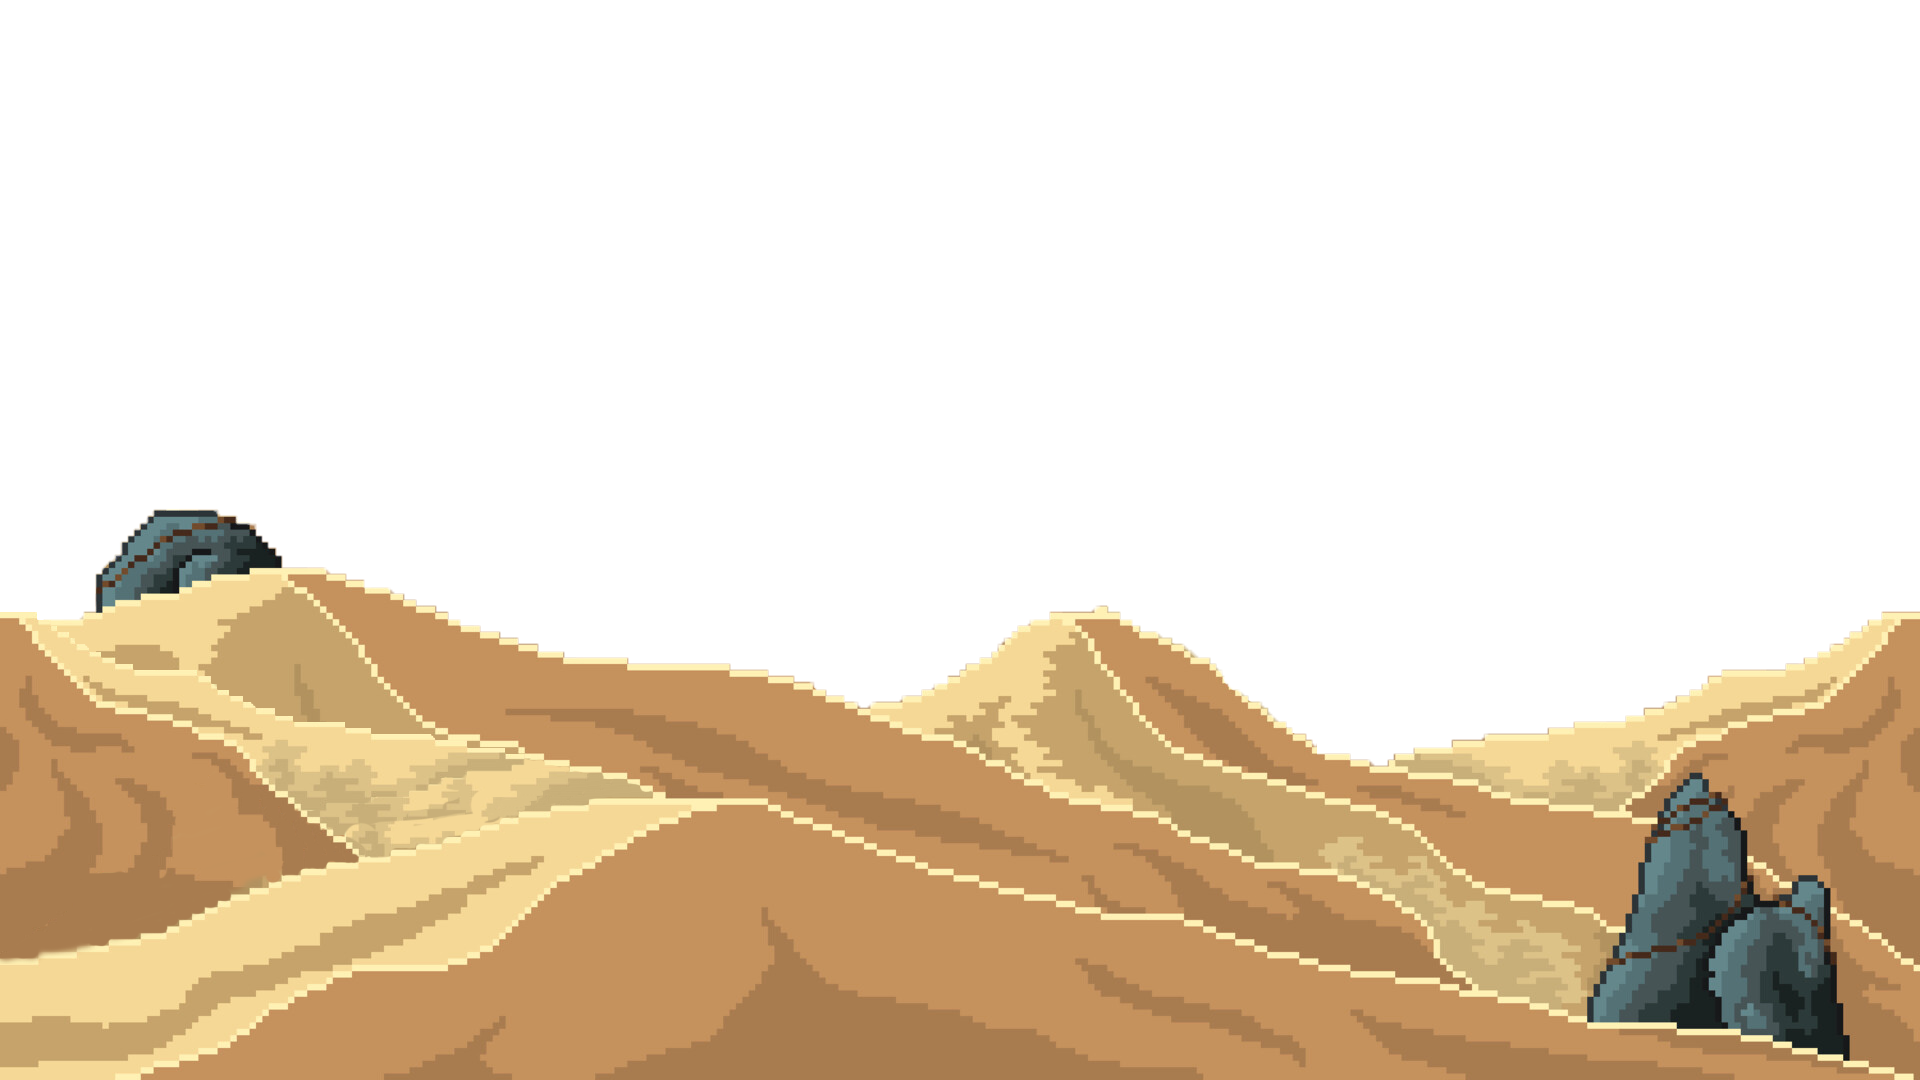
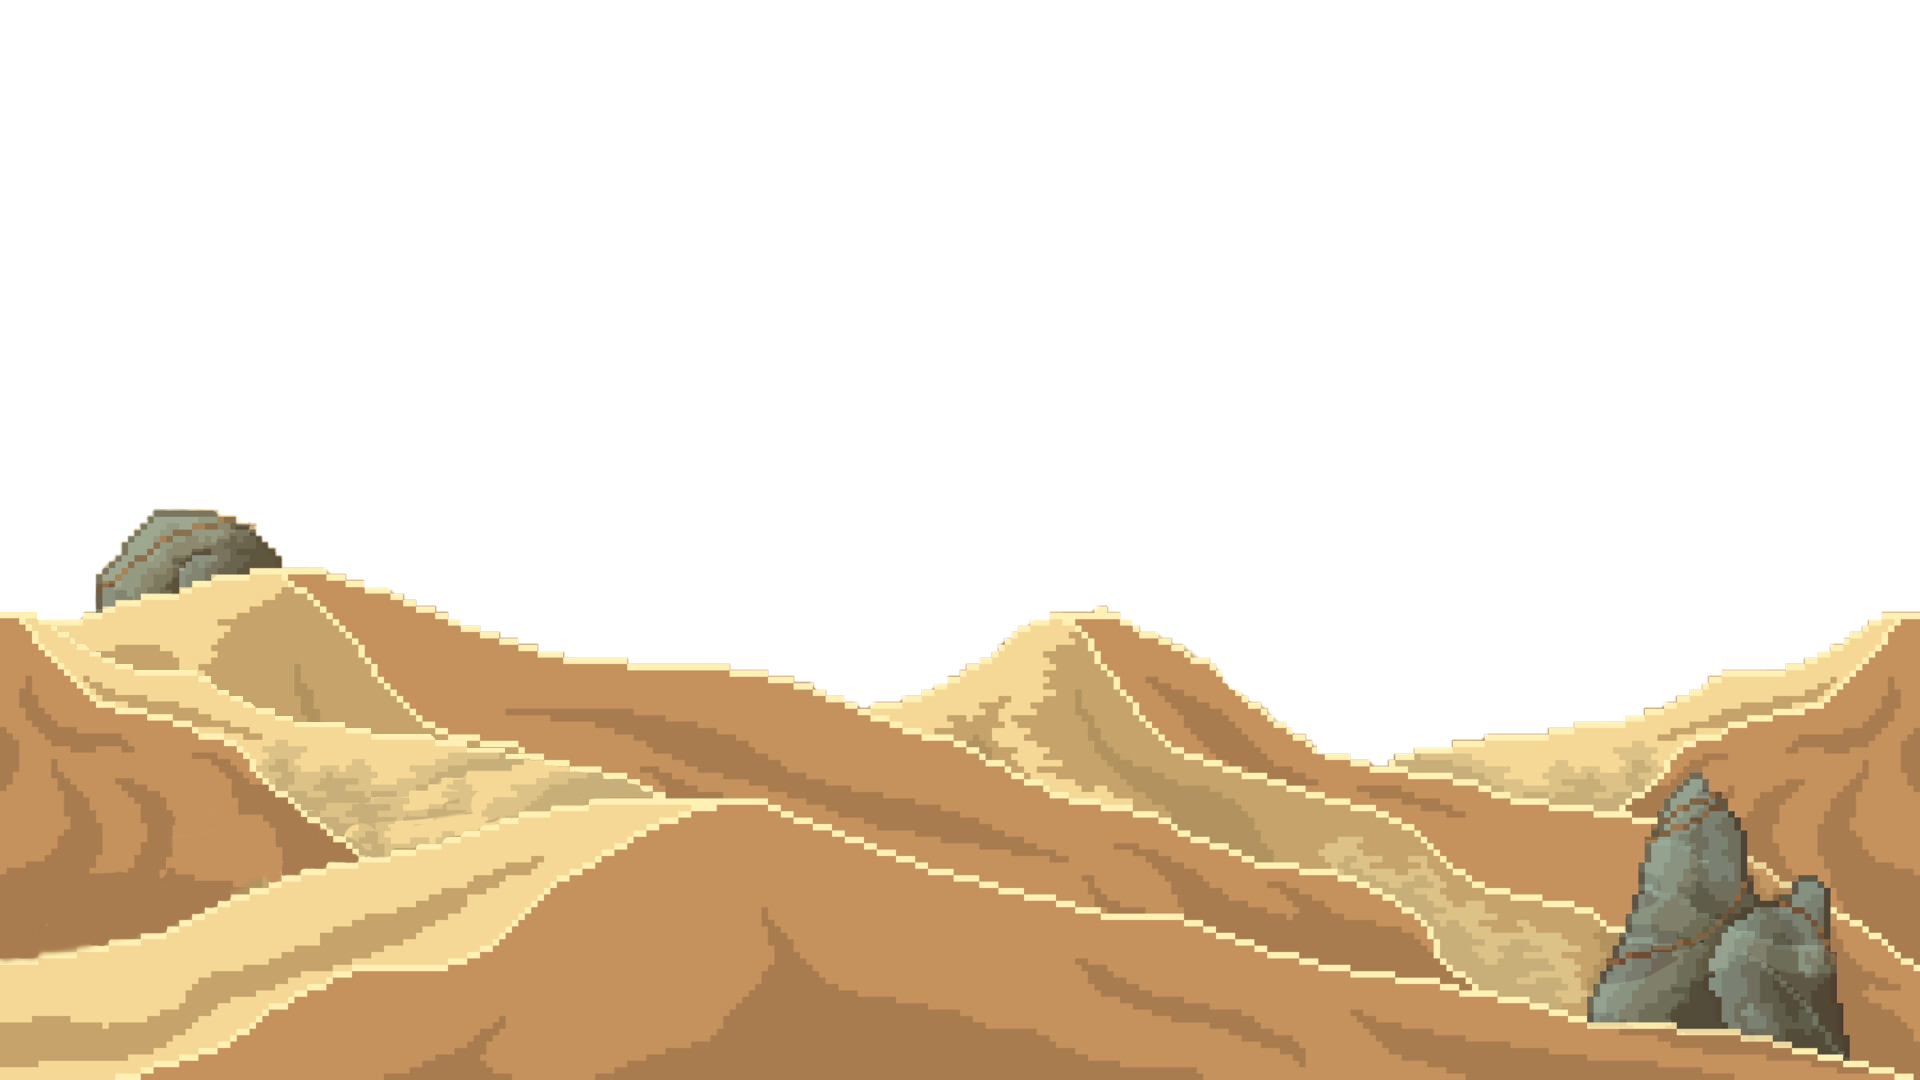
v0.3 final added aereal enemy, updated game name, added enemyType to represent each enemy
Air enemy with sinusoidal movement
Background adjusted to not like  like obstacles

Changed region(s): [[0.8125, 0.7028, 0.9688, 0.9778], [0.0312, 0.4583, 0.1562, 0.5806]]

diff --git a/src/gameScreens/gameplayState.cpp b/src/gameScreens/gameplayState.cpp
@@ -11,7 +11,8 @@ extern float backgroundScale;
 GameplayState::GameplayState()
 {
     character = new Character;
-    obstacles.push_back(new Obstacle());
+    obstacles.push_back(new Obstacle(Obstacle::bike));
+    obstacles.push_back(new Obstacle(Obstacle::helicopter));
     initTextures();
     initAudios();
 }
@@ -55,7 +56,7 @@ void GameplayState::backToMenu()
     firstTime = true;
     unloadTextures();
     character = new Character;
-    
+
     obstacles.push_back(new Obstacle());
     initTextures();
     initAudios();
@@ -67,7 +68,7 @@ void GameplayState::update()
     {
         if (obstacle->isAlive())
         {
-            obstacle->changePosX();
+            obstacle->move();
             if (isCharacterObstacleColliding(character, obstacle)) character->setHP(-1);
         }
     }
@@ -116,6 +117,7 @@ void GameplayState::initTextures()
     paralaxMidground = LoadTexture("res/mountain_midground.png");
     paralaxForeground = LoadTexture("res/mountain_foreground.png");
     characterBullet = LoadTexture("res/entities/player_bullet.png");
+    obstacleHelicopter = LoadTexture("res/entities/enemy_helicopter.png");
 }
 
 void GameplayState::initAudios()
@@ -132,6 +134,8 @@ void GameplayState::unloadTextures()
     UnloadTexture(paralaxBackground);
     UnloadTexture(paralaxMidground);
     UnloadTexture(paralaxForeground);
+    UnloadTexture(characterBullet);
+    UnloadTexture(obstacleHelicopter);
 }
 
 
@@ -147,13 +151,11 @@ void GameplayState::drawBackground() const
     static float rotation = 0;
     drawTexture(paralaxBackground, {scrollingBack, 0}, rotation, backgroundScale, WHITE);
     drawTexture(paralaxBackground, {paralaxBackground.width * backgroundScale + scrollingBack, 0}, rotation,
-                backgroundScale,
-                WHITE);
+                backgroundScale, WHITE);
 
     drawTexture(paralaxMidground, {scrollingMid, 0}, rotation, backgroundScale, WHITE);
     drawTexture(paralaxMidground, {paralaxMidground.width * backgroundScale + scrollingMid, 0}, rotation,
-                backgroundScale,
-                WHITE);
+                backgroundScale, WHITE);
 }
 
 void GameplayState::drawForeground() const
@@ -185,7 +187,9 @@ void GameplayState::drawCharacter() const
     float wheelY = character->getBody().y + vehicleScale * 2;
     float wheelWidth = static_cast<float>(characterWheel.width);
     float wheelHeight = static_cast<float>(characterWheel.height);
+
     const Vector2 origin = {wheelWidth, wheelHeight};
+
     DrawTexturePro(characterWheel, {0, 0, wheelWidth, wheelHeight},
                    {wheelX + wheelWidth * 1.73f, wheelY + wheelHeight * 3, 50, 50}, origin, wheelRotation,RAYWHITE);
 
@@ -196,12 +200,22 @@ void GameplayState::drawObstacles() const
 {
     for (Obstacle* obstacle : obstacles)
     {
+        float textureX = obstacle->getBody().x - obstacleBike.width;
+        float textureY = obstacle->getBody().y - obstacleBike.height;
+
         if (obstacle->isAlive())
         {
-            float textureX = obstacle->getBody().x - obstacleBike.width;
-            float textureY = obstacle->getBody().y - obstacleBike.height;
+            switch (obstacle->getType())
+            {
+            case Obstacle::helicopter:
+                drawTexture(obstacleHelicopter, {textureX, textureY}, 0, 3 * backgroundScale, RAYWHITE);
+                break;
+            case Obstacle::bike:
+            case Obstacle::truck:
+            default:
+                drawTexture(obstacleBike, {textureX, textureY}, 0, 3 * backgroundScale, RAYWHITE);
+            }
 
-            drawTexture(obstacleBike, {textureX, textureY}, 0, 3 * backgroundScale, RAYWHITE);
             //DrawTextureRec(obstacleBike, {0, 0, -static_cast<float>(obstacleBike.width), static_cast<float>(obstacleBike.height)}, {textureX, textureY},                           RAYWHITE);
             //DrawTexturePro(obstacleBike, {0, 0, -static_cast<float>(obstacleBike.width), static_cast<float>(obstacleBike.height)}, {textureX, textureY},                           RAYWHITE);
         }

diff --git a/src/gameObjects/obstacle.cpp b/src/gameObjects/obstacle.cpp
@@ -5,11 +5,40 @@
 
 Obstacle::Obstacle()
 {
+    speed = 200.f;
     hp = 2;
     alive = true;
     const float initialX = static_cast<float>(GetScreenWidth()) / 2.0f;
     const float initialRadius = static_cast<float>(GetScreenWidth()) / 20.f;
     const float initialY = GetScreenHeight() * 0.90287f - initialRadius;
+    body = {initialX, initialY, initialRadius};
+}
+
+Obstacle::Obstacle(EnemyType type)
+{
+    speed = 200.f;
+    hp = 2;
+    alive = true;
+    this->type = type;
+
+    const float initialX = static_cast<float>(GetScreenWidth()) * .99f;
+    const float initialRadius = static_cast<float>(GetScreenWidth()) / 20.f;
+
+    float initialY;
+
+    switch (type)
+    {
+    case bike:
+        initialY = static_cast<float>(GetScreenHeight()) * 0.90287f - initialRadius;
+        break;
+    case helicopter:
+        initialY = static_cast<float>(GetScreenHeight()) / 6.f;
+        break;
+    case truck:
+    default:
+        initialY = static_cast<float>(GetScreenHeight()) * 0.90287f - initialRadius;
+    }
+
     body = {initialX, initialY, initialRadius};
 }
 
@@ -26,18 +55,30 @@ void Obstacle::reset()
     body = {initialX, initialY, initialWidth};
 }
 
-void Obstacle::changePosX()
+void Obstacle::move()
 {
-    body.x -= 200 * GetFrameTime();
-    if (body.x < 0)
+    if (type == helicopter)
     {
-        body.x = static_cast<float>(GetScreenWidth());
+        body.x += speed * GetFrameTime();
+        if (getBody().x > GetScreenWidth())
+        {
+            body.x = 0;
+        }
+        SinusoidalMovement();
+    }
+    else
+    {
+        body.x -= speed * GetFrameTime();
+        if (body.x < 0)
+        {
+            body.x = static_cast<float>(GetScreenWidth());
+        }
     }
 }
 
 void Obstacle::SinusoidalMovement()
 {
-    body.y += sin(body.x / 6) * GetFrameTime() * static_cast<float>(GetScreenWidth()) / 2;
+    body.y += sin(body.x / 16) * GetFrameTime() * static_cast<float>(GetScreenWidth()) / 2;
 }
 
 void Obstacle::draw() const
@@ -51,10 +92,15 @@ Circle Obstacle::getBody() const
     return body;
 }
 
+Obstacle::EnemyType Obstacle::getType() const
+{
+    return type;
+}
+
 void Obstacle::modifyHP(int hpModifier)
 {
     hp += hpModifier;
-    if(hp <= 0)
+    if (hp <= 0)
     {
         alive = false;
     }

diff --git a/src/gameObjects/obstacle.h b/src/gameObjects/obstacle.h
@@ -5,24 +5,31 @@
 class Obstacle
 {
 public:
+    
     enum EnemyType
     {
         bike,
-        truck,
-        helicopter
+        helicopter,
+        truck
     };
+    
     Obstacle();
+    Obstacle(EnemyType type);
     ~Obstacle();
     void reset();
-    void changePosX();
+    void move();
     void SinusoidalMovement();
     void draw() const;
     Circle getBody() const;
+    EnemyType getType() const;
     void modifyHP(int hpModifier);
     bool isAlive();
     void setY(float y_);
     void setX(float x_);
+    
 private:
+    
+    float speed;
     Circle body;
     bool alive;
     int hp;

diff --git a/src/gameScreens/statesManager.cpp b/src/gameScreens/statesManager.cpp
@@ -33,13 +33,13 @@ void initProgram()
 {
     setGameState(GameStates::Menu);
     SetRandomSeed(static_cast<unsigned int>(time(nullptr)));
-    InitWindow(1600, 900, "MoonPatrol");
+    InitWindow(1600, 900, "Mad Patrol");
     InitAudioDevice();
     loadResources();
     SetExitKey(NULL);
     SetWindowSize(1600, 900);
 
-    SetTargetFPS(30);
+
     isProgramRunning = true;
     gameplayState = new GameplayState;
     while (!WindowShouldClose() && isProgramRunning)

diff --git a/src/gameScreens/menu/menuState.cpp b/src/gameScreens/menu/menuState.cpp
@@ -121,7 +121,7 @@ void drawMenu()
     drawButton(exitButton);
     float fontSize;
     fontSize = 16.0f * static_cast<float>(GetScreenHeight()) / 728.0f;
-    std::string titleScreen = "Moon Patrol";
+    std::string titleScreen = "Mad Patrol";
     drawText(titleScreen.c_str(), width / 2.0f - static_cast<float>(titleScreen.length()) * fontSize * 2.f,
              (height / 8.0f), fontSize * 8.0f, BLACK, customFont);
 }

diff --git a/src/gameScreens/gameplayState.h b/src/gameScreens/gameplayState.h
@@ -19,13 +19,13 @@ private:
     Texture2D characterWheel;
     Texture2D characterBullet;
     Texture2D obstacleBike;
+    Texture2D obstacleHelicopter;
 
     Sound bulletSound;
     
     float scrollingBack = 0.0f;
     float scrollingMid = 0.0f;
     float scrollingFore = 0.0f;
-    float paralaxScale;
     float wheelRotation = 0;
 
     void update();
